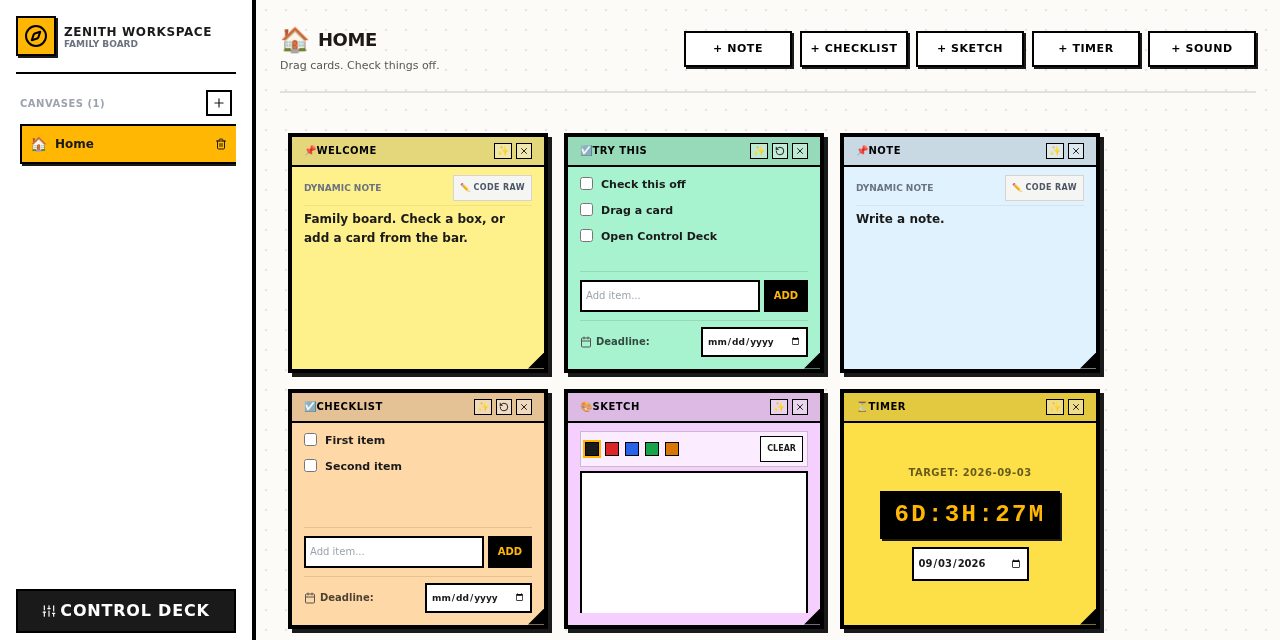
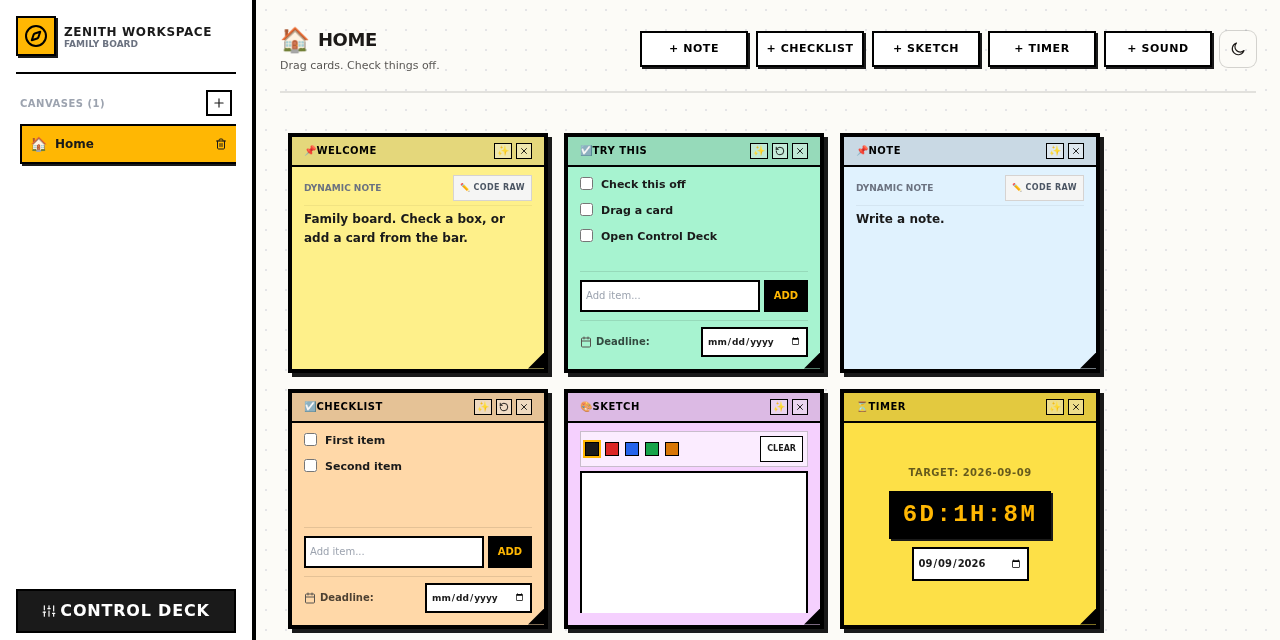
docs: recapture Control Deck screenshot with Tailwind restored (#10)
Replace the unstyled Control Deck README image with a capture from a styled local run.

diff --git a/CHANGELOG.md b/CHANGELOG.md
@@ -4,7 +4,13 @@ All notable changes to **Zenith Workspace** will be documented in this file.
 
 ---
 
-## [1.15.1] - 2026-08-28
+## [1.15.2] - 2026-09-03
+### Fixed
+* Replace the Control Deck README screenshot. It had been captured while Tailwind was missing, so GitHub was showing unstyled HTML.
+
+---
+
+
 ### Fixed
 * Restore Tailwind in `globals.css`. The Control Deck restyle had overwritten the file and shipped without `@tailwind` directives, so production rendered as unstyled HTML.
 
